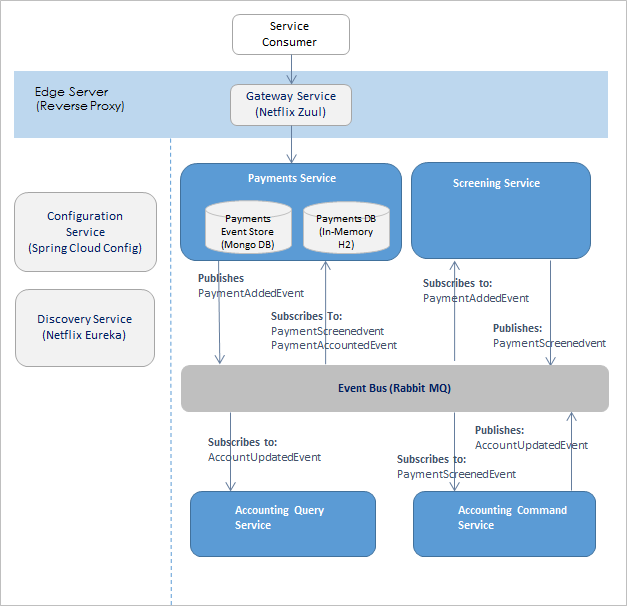
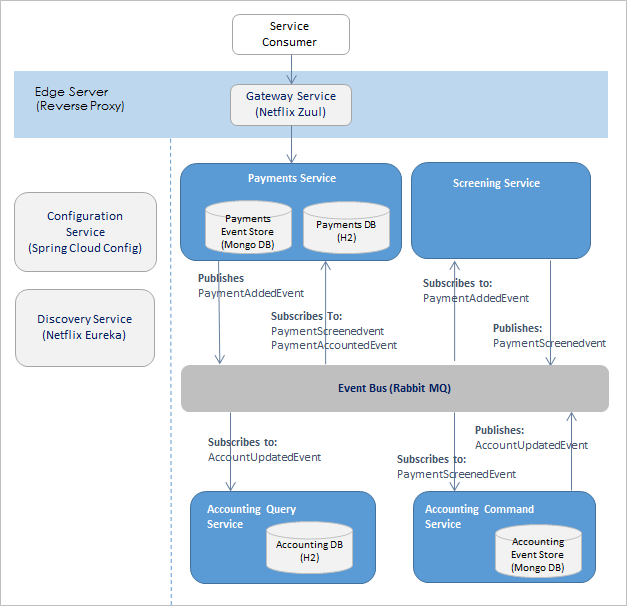
added details

diff --git a/README.md b/README.md
@@ -14,6 +14,7 @@ This sample project showcases `event-driven` microservices to build distributed 
 * [Event Sourcing] (#event-sourcing) 
 * [Command Query Responsibility Segregation] (#cqrs)
 
+
 ## <a name="application-architecture"></a> Application Architecture
 This project introduced is about a fictitious `Payment` execution application. Payments can be added for payment execution, stored, retrieved using RESTful API service. As changes happen for example payment screening and accounts updates for the payment amount, notifications are sent to interested services using messaging.
 
@@ -35,11 +36,16 @@ Architecture consists of business services and backing services from Pilot-Micro
 ## <a name="reactive-principles"></a> Reactive Principles 
 * Today’s most popular services—from Twitter to Apple Siri—are distributed by default, and designed for unprecedented numbers of concurrent users, data volumes and speeds. The characteristics of Reactive systems — designed to be [Responsive, Resilient, Elastic and Message Driven] (http://www.reactivemanifesto.org/) to support these new extremes and they are becoming popular for bringing new software to market.
 
+## <a name="cqrs"></a> Command Query Responsibility Segregation
+* CQRS is based in Bertrand Meyer's CQS (Command-Query Separation) concept. CQS states that every method should either be a command that performs an action or a query that retrieves a result. The basic idea is to divide the operations that act on a domain object into two distinct categories:
+* Queries—methods that return a result and do not change the system state.
+* Commands—methods that change the system state but do not return values.
+
+The events are persisted into the event repository. The business model database can therefore contain the last state of the system, but the event repository keeps the whole history of the data. With this separation of concerns, the developer is free to choose the most appropriate technology for each pattern component, and can (if desired) build a polyglot application. In this example it uses Mongo DB for event repository and H2 database as query database.
+
 ## <a name="event-scourcing"></a> Event Sourcing 
 * Event Sourcing is architecture pattern that represents state as series of events. In event-sourcing, events are the sole record of state for the system. They are used by the system to describe and re-build the current state of any entity on demand (by replaying it’s past events one at a time until all previous events have been re-applied). 
 
-## <a name="cqrs"></a> Command Query Responsibility Segregation
-* CQRS is based in Bertrand Meyer's CQS (Command-Query Separation) concept. CQS states that every method should either be a command that performs an action or a query that retrieves a result.
 
 ## Using the Application
 
